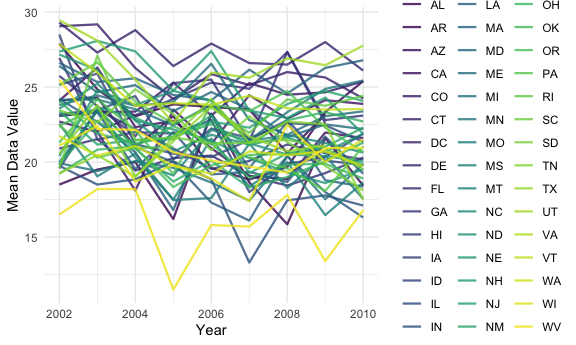
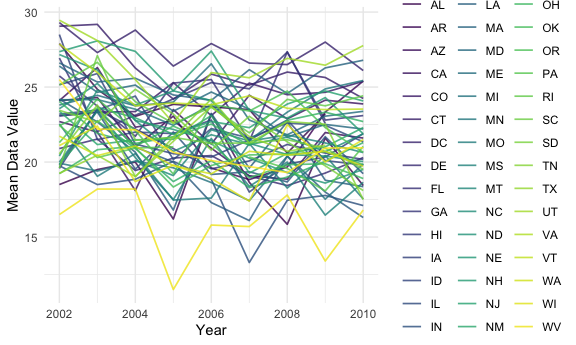
Problem 1: updating summary

diff --git a/p8105_hw3_mtr2143.md b/p8105_hw3_mtr2143.md
@@ -18,9 +18,9 @@ instacart <-
     )
 ```
 
-There are 1384617 observations and 15 in the `instacart` data where each
-observation represents a product that was purchased as part of an
-Instacart order. Key variables include:
+There are 1384617 observations and 15 columns in the `instacart` data
+where each observation represents a product that was purchased as part
+of an Instacart order. Key variables include:
 
 *`reordered`: binary variable indicating if a user has ordered the
 product in the past  
@@ -115,6 +115,32 @@ order_time_by_day %>%
 
 <img src="p8105_hw3_mtr2143_files/figure-gfm/col plot time of day and dow-1.png" width="90%" />
 
+``` r
+instacart %>% 
+  select(department_id, department, aisle) %>% 
+  distinct() %>% 
+  group_by(department) %>% 
+  summarize(
+    num_aisle = n()
+  ) %>% 
+  arrange(desc(num_aisle))
+```
+
+    ## # A tibble: 21 × 2
+    ##    department    num_aisle
+    ##    <chr>             <int>
+    ##  1 personal care        17
+    ##  2 pantry               12
+    ##  3 frozen               11
+    ##  4 snacks               11
+    ##  5 dairy eggs           10
+    ##  6 household            10
+    ##  7 beverages             8
+    ##  8 meat seafood          7
+    ##  9 alcohol               5
+    ## 10 bakery                5
+    ## # … with 11 more rows
+
 To find out how many orders were placed at each time of day, I
 considered 5 AM to 11 AM morning, 12 PM to 4 PM afternoon, 5 PM to 8 PM
 evening, and 9 PM to 4 AM night. The day with the most orders overall
@@ -147,7 +173,7 @@ aisles %>%
     coord_flip()
 ```
 
-<img src="p8105_hw3_mtr2143_files/figure-gfm/unnamed-chunk-2-1.png" width="90%" />
+<img src="p8105_hw3_mtr2143_files/figure-gfm/unnamed-chunk-3-1.png" width="90%" />
 
 #### Make a table showing the three most popular items in each of the aisles “baking ingredients”, “dog food care”, and “packaged vegetables fruits”. Include the number of times each item is ordered in your table.
 
@@ -311,7 +337,7 @@ brfss %>%
   group_by(year, state) %>% 
   summarize(mean_data = mean(data_value)) %>% 
   ggplot(aes(x = year, y = mean_data, group = state)) +
-    geom_line(aes(color = state), size = .8, alpha = .8) +
+    geom_line(aes(color = state), size = .6, alpha = .8) +
     xlab("Year") + ylab("Mean Data Value") +
     theme(
       legend.position = "right"
@@ -437,3 +463,28 @@ From the boxplot, we know that Wednesdays have the most consistent
 amount of total activity, while Saturdays are the most variable.
 However, across all days of the week, there are similar values for the
 median.
+
+#### Make a single-panel plot that shows the 24-hour activity time courses for each day and use color to indicate day of the week. Describe in words any patterns or conclusions you can make based on this graph.
+
+``` r
+twenty_four_hr_activity <-
+  activity %>% 
+    pivot_longer(
+      cols = starts_with("min_"), 
+      names_to = "min", 
+      names_prefix = "min_",
+      values_to = "activity"
+    ) %>% 
+    mutate(
+      min = as.numeric(min)
+    )
+
+twenty_four_hr_activity %>% 
+  ggplot(aes(x = min, y = activity, group = day_id)) +
+  geom_point(aes(color = day), size = .4, alpha = .5) +
+  theme(
+    legend.position = "right"
+  ) 
+```
+
+<img src="p8105_hw3_mtr2143_files/figure-gfm/24 hour activity by day of week-1.png" width="90%" />
